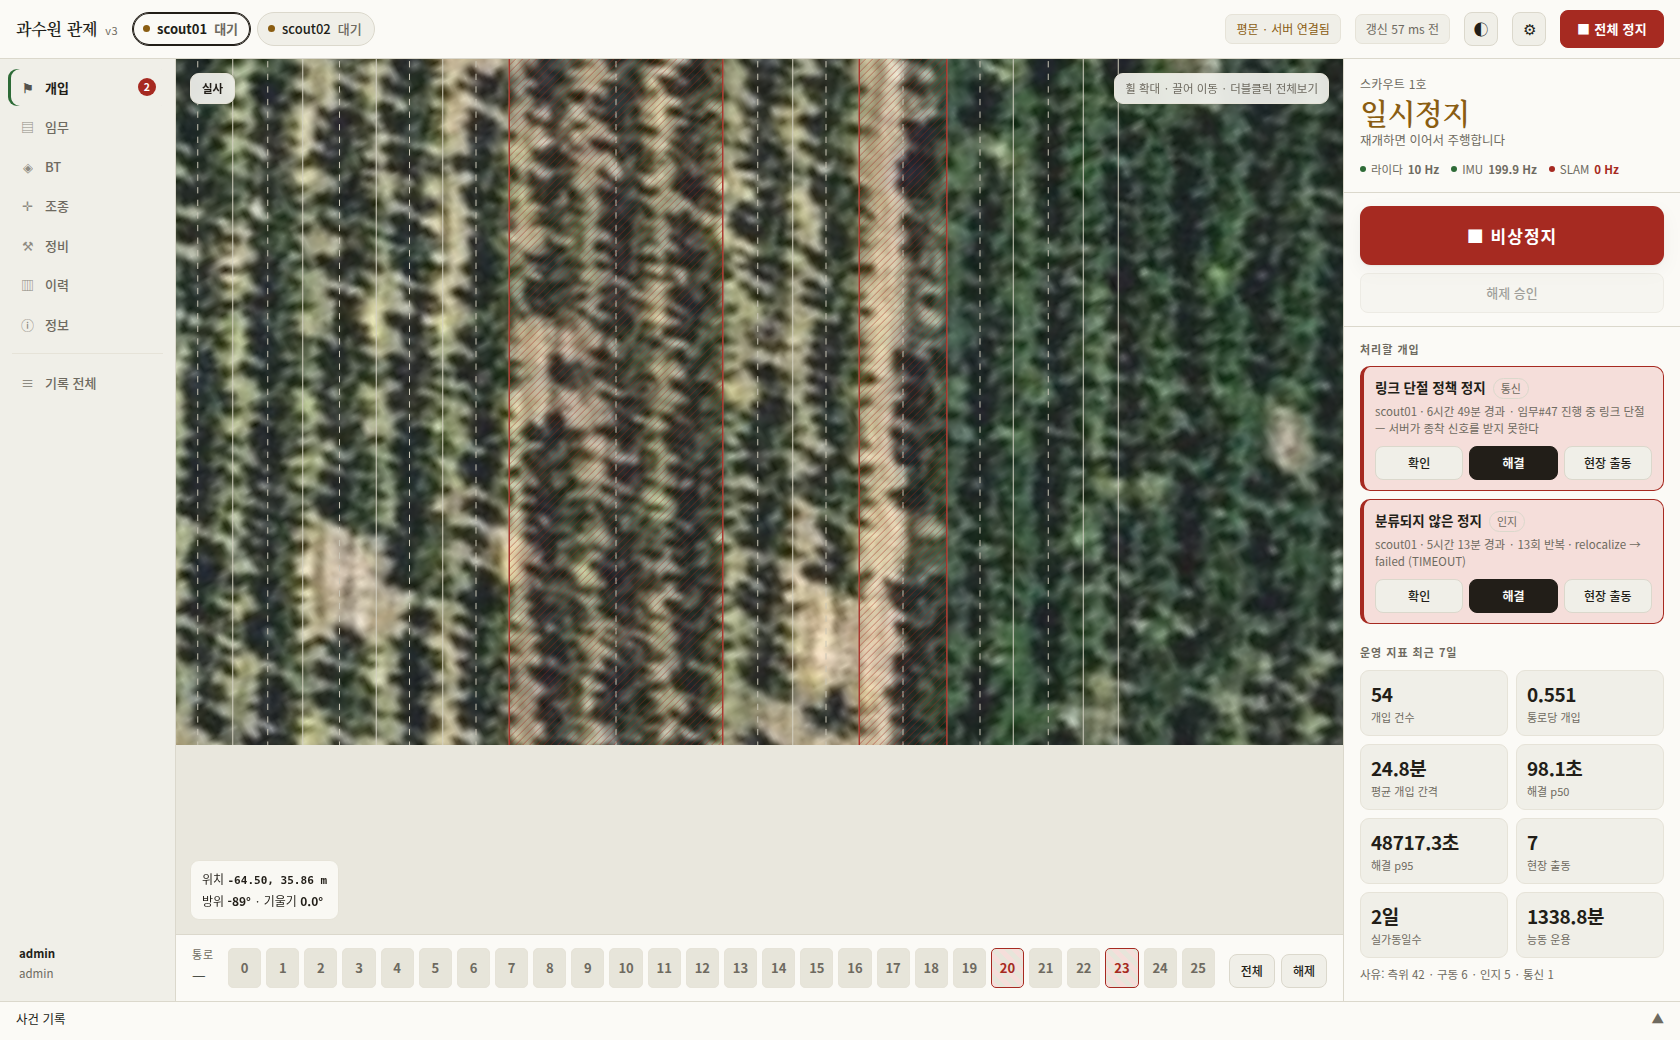
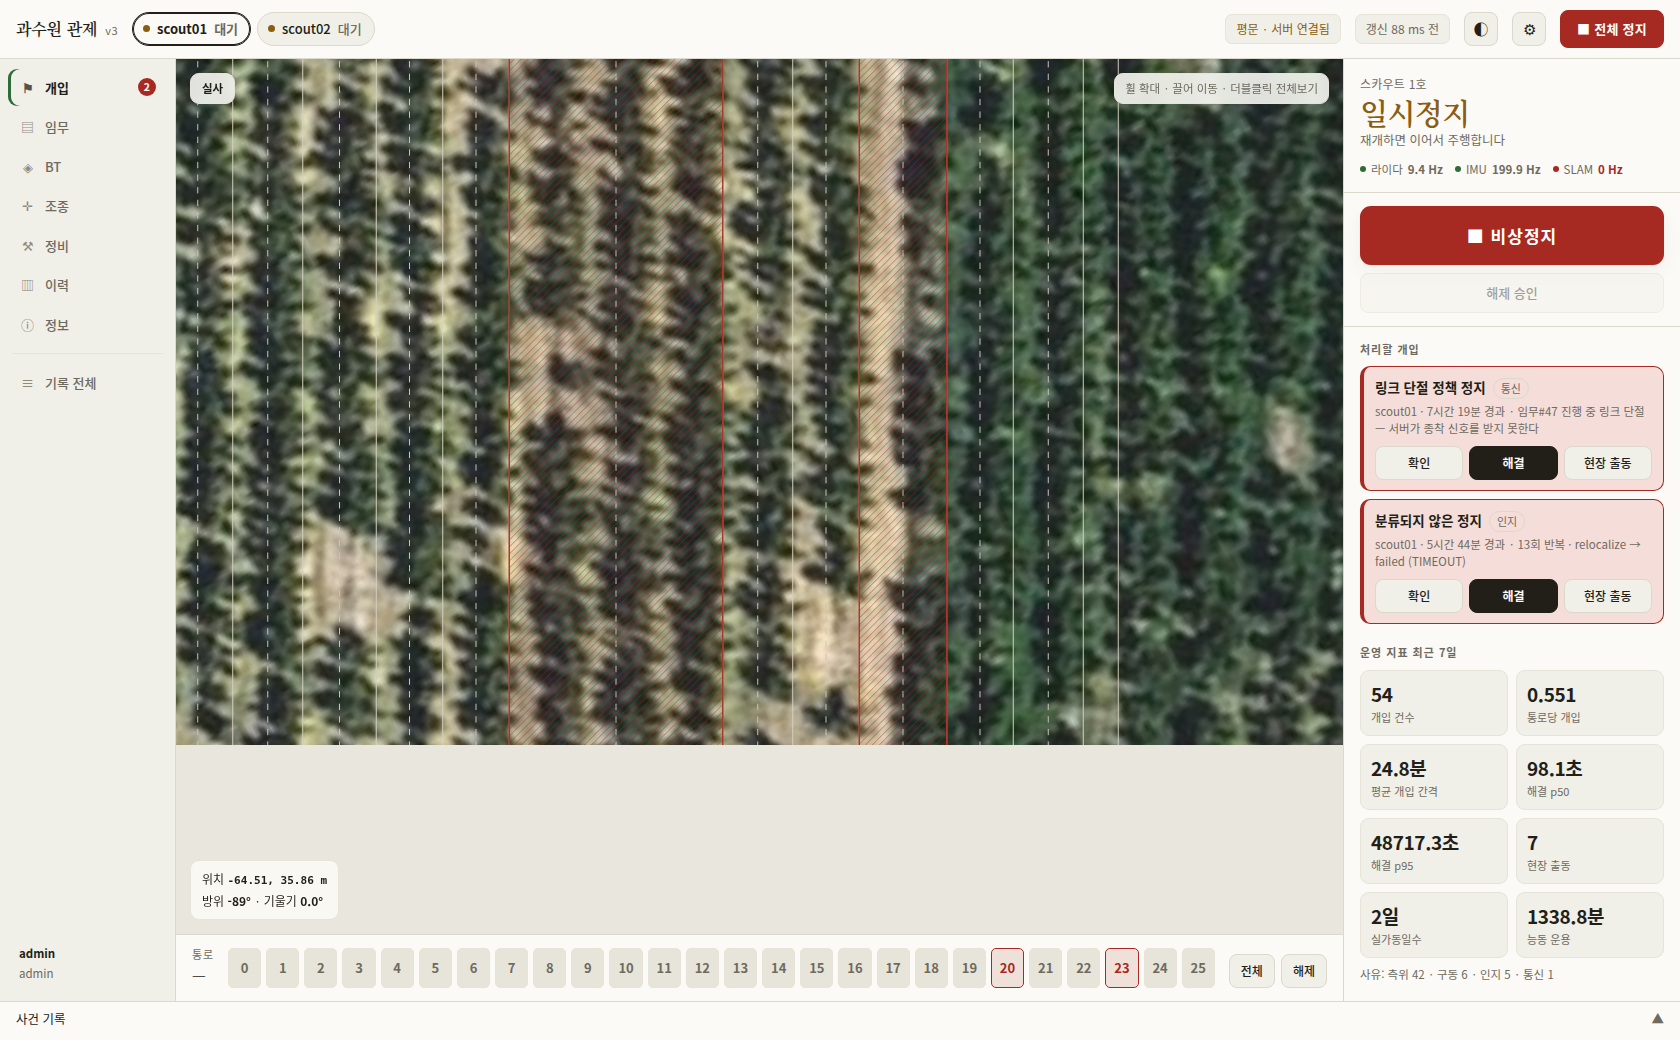
대시보드 실사 지도 수정 — 통로 y 범위 farm 단일출처 일반화(수정 라운드 1)

Changed region(s): [[0.3095, 0.0615, 0.4333, 0.7077], [0.8357, 0.1538, 0.9595, 0.1846]]

diff --git a/server/web/index.html b/server/web/index.html
@@ -1401,12 +1401,22 @@ const W2S = (x,y) => [cv.width/2 + (x-view.cx)*view.scale,
    T3 N-3 인계: 로봇 hello geom(g)의 x0/row_spacing 은 통로 폭을 균일하다고
    가정한 근사값이다 — 실사 농장은 통로 간격이 4.75~15.25 m 로 불균일해서
    그 근사가 최대 8 m 이상 어긋난다(row_origins 실측 대비). GET /api/v1/farm
-   이 있으면 그 row_origins(x)를 실제 열 위치로 써서 통로 중심·경계·클릭
-   판정을 다시 계산한다 — farm 이 없거나(404) rows 개수가 안 맞으면 아래
-   함수들은 전부 기존 g 균일 격자 공식으로 그대로 떨어진다(계단식 하위호환,
-   그 경로의 산식은 한 글자도 바뀌지 않는다). */
+   이 있으면 그 row_origins(x·y)·row_lengths_m·headland_m 을 실제 값으로 써서
+   통로 중심·경계·y 범위·클릭 판정을 다시 계산한다 — farm 이 없거나(404)
+   rows 개수가 안 맞으면 아래 함수들은 전부 기존 g 균일 격자 공식으로 그대로
+   떨어진다(계단식 하위호환, 그 경로의 산식은 한 글자도 바뀌지 않는다).
+
+   **단일 출처 원칙(수정 라운드 1 Important)**: 로봇 hello geom 에는 이미
+   `alley_centers_x`·`row_span_y` 가 실측값으로 실려 있다(control.launch.py
+   가 world:=real 에서 farm.json 으로부터 계산해 파라미터로 넘기고,
+   control_agent 가 site_geom 에 얹는다 — robomw sdk/sitegeom.py 참조). 그런데
+   대시보드는 그 값을 읽지 않고 GET /api/v1/farm 에서 x·y 를 전부 다시 유도한다
+   — x 는 이미 그렇게 하고 있었고(§ 아래), 로봇 geom 과 farm.json 을 반반씩
+   섞으면 두 값의 기동 시점이 어긋나는 순간(farm.json 갱신 후 로봇 미재기동
+   등) 대시보드 두 곳이 서로 다른 통로 경계를 그리게 된다. */
 let FARM = null;                 // GET /api/v1/farm 응답, 없으면 null(폴백)
 let FARM_ROW_X = null;           // [x, …] row_origins 의 x 만 뽑은 배열(길이 = FARM.rows)
+let FARM_Y_OK = false;           // row_lengths_m·headland_m 까지 갖춰 y 범위도 유도 가능한가
 let farmWarned = false, imgWarned = false;   // 콘솔 경고는 딱 1회만
 let orthoImg = null, orthoReady = false;
 const MAPMODE_KEY = "orchard.mapmode";
@@ -1429,6 +1439,22 @@ function alleyXRange(g, k){
 function alleyCenterX(g, k){
   const [xL, xR] = alleyXRange(g, k);
   return (xL + xR) / 2;
+}
+// 통로 k 의 [yLo,yHi] — farm 있으면 row_origins 의 y + row_lengths_m 로 유도한
+// 캐노피 안쪽 교집합(이웃 두 열 중 **짧은 쪽** — robomw sdk/sitegeom.py 의
+// row_span_y 규약과 같은 공식: canY0=y0+headland, canY1=y0+길이-headland,
+// 통로는 두 이웃 열의 [canY0,canY1] 교집합). farm 없으면 기존 g.col_len/
+// headland 균일 폴백 그대로(무수정 — 검증 대상).
+function alleyYRange(g, k){
+  if (FARM_Y_OK){
+    const origins = FARM.row_origins, lens = FARM.row_lengths_m, hl = FARM.headland_m;
+    const canY0 = i => origins[i][1] + hl;
+    const canY1 = i => origins[i][1] + lens[i] - hl;
+    const north = Math.max(canY0(k), canY0(k+1));
+    const south = Math.min(canY1(k), canY1(k+1));
+    return [Math.min(north, south), Math.max(north, south)];
+  }
+  return [-g.col_len/2 - g.headland, g.col_len/2 + g.headland];
 }
 // 클릭 판정 — farm 있으면 실측 구간을 훑어 찾고(불균일 폭 대응), 없으면
 // 기존 균일 격자 역산 그대로(무수정 — 검증 대상).
@@ -1494,7 +1520,7 @@ async function loadFarm(){
   try {
     FARM = await api("/farm");
   } catch (e) {
-    FARM = null; FARM_ROW_X = null;
+    FARM = null; FARM_ROW_X = null; FARM_Y_OK = false;
     if (!farmWarned){
       console.warn("[지도] GET /api/v1/farm 실패 — 벡터 지도(로봇 geom)로 대체합니다:", e.message);
       farmWarned = true;
@@ -1505,6 +1531,9 @@ async function loadFarm(){
   }
   FARM_ROW_X = (Array.isArray(FARM.row_origins) && FARM.row_origins.length === FARM.rows)
     ? FARM.row_origins.map(p => p[0]) : null;
+  FARM_Y_OK = !!(FARM_ROW_X && Array.isArray(FARM.row_lengths_m) &&
+                 FARM.row_lengths_m.length === FARM.rows &&
+                 typeof FARM.headland_m === "number");
   preloadOrtho(FARM);
   updateMapModeUI(); updateScoutGate();
   // hello(로봇 geom)가 이 farm 응답보다 먼저 왔을 수 있다 — 그때 그린 통로
@@ -1554,10 +1583,16 @@ cv.addEventListener("click", ev => {
   const r = sel(), g = r?.geom;
   if (!g) return;
   const rect = cv.getBoundingClientRect(), d = window.devicePixelRatio || 1;
-  const px = (ev.clientX - rect.left) * d;
+  const px = (ev.clientX - rect.left) * d, py = (ev.clientY - rect.top) * d;
   const wx = view.cx + (px - cv.width/2) / view.scale;
   const k = alleyAtX(g, wx);
   if (k < 0) return;
+  // y 도 그 통로의 실측 구간(alleyYRange) 안인지 본다 — 정사영상 바탕이
+  // 밭 전체보다 훨씬 넓은 캔버스를 덮으므로, x 열만 맞으면 밭 밖 허공을
+  // 눌러도 선택되던 문제를 막는다(수정 라운드 1 Important, x 와 같은 원칙).
+  const [yLo, yHi] = alleyYRange(g, k);
+  const wy = view.cy - (py - cv.height/2) / view.scale;
+  if (wy < yLo || wy > yHi) return;
   if ($("pane-mission").classList.contains("on") &&
       $("pane-mission").style.display !== "none") toggleAlley(k);
 });
@@ -1585,8 +1620,9 @@ function drawAlleyLocks(g, c){
     ctx.fillStyle = robotColor(robots.get(lock.robot_id), lock.robot_id === selKey, c);
     for (const k of ks){
       const [xL, xR] = alleyXRange(g, k);
-      const [ax, ay] = W2S(xL, -g.col_len/2 - g.headland);
-      const [bx, by] = W2S(xR, g.col_len/2 + g.headland);
+      const [yLo, yHi] = alleyYRange(g, k);
+      const [ax, ay] = W2S(xL, yLo);
+      const [bx, by] = W2S(xR, yHi);
       ctx.fillRect(ax, by, bx-ax, ay-by);
     }
   }
@@ -1603,8 +1639,9 @@ function drawNoGoAlleys(g, c){
   for (const k of FARM.no_go_alleys){
     if (k < 0 || k >= g.alleys) continue;
     const [xL, xR] = alleyXRange(g, k);
-    const [ax, ay] = W2S(xL, -g.col_len/2 - g.headland);
-    const [bx, by] = W2S(xR, g.col_len/2 + g.headland);
+    const [yLo, yHi] = alleyYRange(g, k);
+    const [ax, ay] = W2S(xL, yLo);
+    const [bx, by] = W2S(xR, yHi);
     const x = Math.min(ax,bx), y = Math.min(ay,by), w = Math.abs(bx-ax), h = Math.abs(ay-by);
     ctx.save();
     ctx.beginPath(); ctx.rect(x, y, w, h); ctx.clip();
